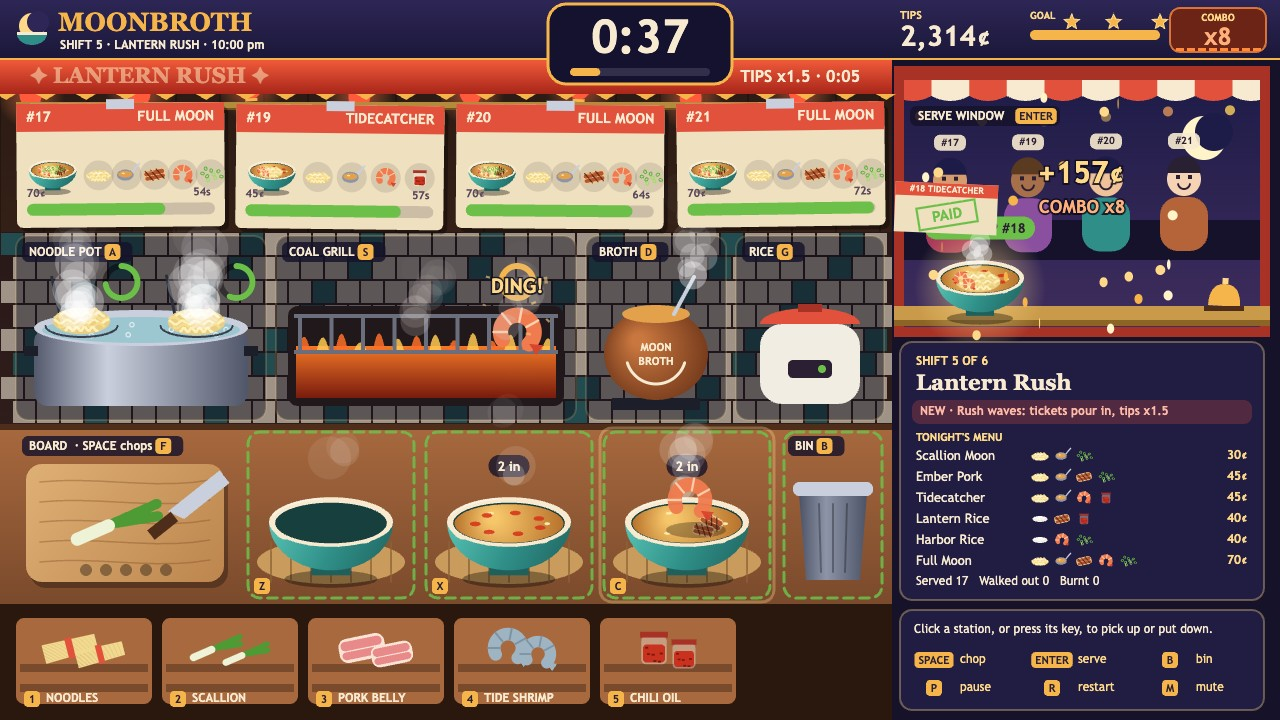
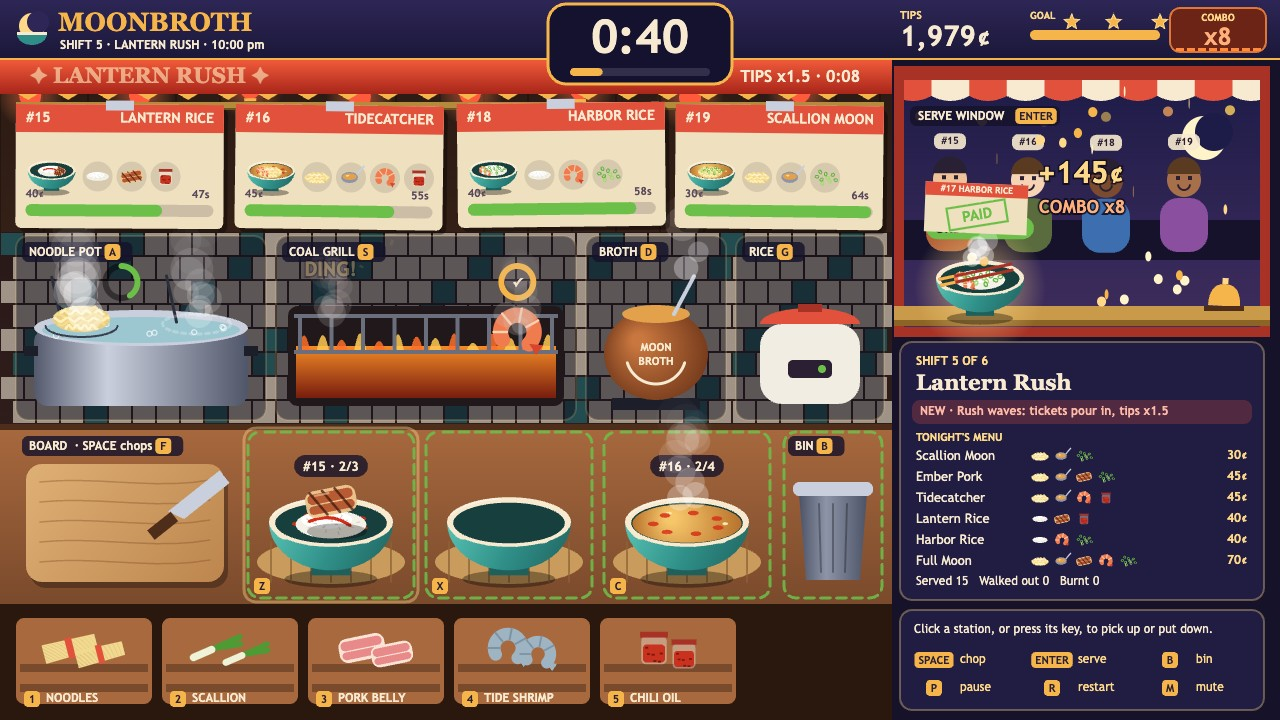
Ready tickets glow, pressure line on shift cards, rising critic odds, pause on blur, chopsticks on served bowls

diff --git a/game/src/hud.js b/game/src/hud.js
@@ -2,7 +2,7 @@
 // the ticket rail, the rush ribbon, the shift card, the key legend, Grandma Tam's tutorial
 // pointer and the food in the cook's hand.
 import { COMBO_MAX, FONT, FONT_TITLE, LAYOUT, PALETTE, TICKET } from './config.js';
-import { recipesForShift } from './menu.js';
+import { recipeMatching, recipesForShift } from './menu.js';
 import { drawBowl, drawIngredient, roundRect } from './food-art.js';
 import { keyCap } from './kitchen-art.js';
 import { currentTutorialStep } from './tutorial.js';
@@ -171,20 +171,34 @@ function drawTickets(ctx, kitchen, t) {
   ctx.fillRect(rail.x, rail.y + 6, rail.w, 6);
   ctx.fillStyle = '#6e5220';
   ctx.fillRect(rail.x, rail.y + 12, rail.w, 2);
+  const readyRecipes = readyBowlRecipes(kitchen);
   for (const ticket of kitchen.orders.tickets) {
     const slide = Math.max(0, 1 - ticket.age / 0.35);
     const x = rail.x + ticket.slot * (TICKET.width + TICKET.gap) + slide * 400;
-    drawTicket(ctx, ticket, x, rail.y + 4, t);
+    const ready = readyRecipes.indexOf(ticket.recipe);
+    if (ready >= 0) readyRecipes.splice(ready, 1);
+    drawTicket(ctx, ticket, x, rail.y + 4, t, ready >= 0);
   }
   if (kitchen.orders.tickets.length === 0) text(ctx, 'The rail is clear: orders are on their way…', rail.x + 20, rail.y + 60, 15, 'rgba(247,234,208,0.6)');
 }
 
-function drawTicket(ctx, ticket, x, y, t) {
+/** The recipes of finished bowls on the counter or in hand, one entry per bowl. */
+function readyBowlRecipes(kitchen) {
+  const carried = kitchen.hand && kitchen.hand.type === 'bowl' ? [kitchen.hand.bowl] : [];
+  return [...kitchen.bowls, ...carried].map((bowl) => bowl && recipeMatching(bowl.items)).filter(Boolean);
+}
+
+function drawTicket(ctx, ticket, x, y, t, ready) {
   const ratio = Math.max(0, ticket.patience / ticket.maxPatience);
   const shake = ratio < 0.2 ? Math.sin(t * 40) * 1.5 : 0;
   ctx.save();
   ctx.translate(x + shake, y);
   ctx.rotate(Math.sin(ticket.id * 1.7) * 0.015);
+  if (ready) {
+    roundRect(ctx, -4, 0, TICKET.width + 8, TICKET.height + 8, 9);
+    ctx.fillStyle = `rgba(108,192,74,${0.55 + Math.sin(t * 6) * 0.25})`;
+    ctx.fill();
+  }
   ctx.fillStyle = 'rgba(0,0,0,0.35)';
   roundRect(ctx, 4, 8, TICKET.width, TICKET.height, 6);
   ctx.fill();
@@ -218,7 +232,7 @@ function drawTicket(ctx, ticket, x, y, t) {
     ctx.fillStyle = barColor;
     ctx.fill();
   }
-  text(ctx, `${Math.ceil(ticket.patience)}s`, TICKET.width - 14, 94, 11, PALETTE.inkSoft, 'right');
+  text(ctx, ready ? 'BOWL READY ✓' : `${Math.ceil(ticket.patience)}s`, TICKET.width - 14, 94, 11, ready ? '#3d8a24' : PALETTE.inkSoft, 'right');
   text(ctx, `${ticket.recipe.value}¢`, 10, 94, 11, PALETTE.inkSoft);
   ctx.restore();
 }

diff --git a/game/src/kitchen-art.js b/game/src/kitchen-art.js
@@ -2,9 +2,9 @@
 // (the boiling pot, the coal grill, the broth kettle, the rice cooker, the board, the bowls,
 // the crates and the serve window looking out on Lantern Pier).
 import { CHOP_STROKES, FONT, LAYOUT, PALETTE } from './config.js';
-import { CRATE_ORDER, INGREDIENTS, recipeMatching } from './menu.js';
+import { bowlFitsRecipe, CRATE_ORDER, INGREDIENTS, recipeMatching } from './menu.js';
 import { cookerSlotRect, cookProgress, crateRect, isOpen } from './kitchen.js';
-import { drawBowl, drawIngredient, roundRect } from './food-art.js';
+import { drawBowl, drawChopsticks, drawIngredient, roundRect } from './food-art.js';
 import { ticketForBowl } from './orders.js';
 
 const KEYS = { pot: 'A', grill: 'S', kettle: 'D', rice: 'G', board: 'F', trash: 'B', window: 'ENTER' };
@@ -31,10 +31,9 @@ export function dropSpotsFor(kitchen) {
   const hand = kitchen.hand;
   if (!hand) return [];
   if (hand.type === 'bowl') {
-    const spots = [LAYOUT.trash];
-    if (recipeMatching(hand.bowl.items)) spots.push(LAYOUT.window);
+    const spots = recipeMatching(hand.bowl.items) ? [LAYOUT.window] : [];
     LAYOUT.bowls.forEach((rect, index) => kitchen.bowls[index] === null && spots.push(rect));
-    return spots;
+    return [...spots, LAYOUT.trash];
   }
   const item = hand.item;
   if (item.stage === 'ruined') return [LAYOUT.trash];
@@ -431,7 +430,10 @@ function drawBowlSpots(ctx, kitchen, t) {
       const scale = (0.6 + 0.4 * easeOutBack(bowl.appear)) * (1 + 0.12 * Math.sin((bowl.pop ?? 0) * Math.PI));
       drawBowl(ctx, cx, cy - 6, 62 * scale, bowl.items, Boolean(ticket));
       if (recipe) bowlTag(ctx, cx, rect.y + 36, ticket ? `#${ticket.id} READY` : recipe.name, Boolean(ticket), t);
-      else if (bowl.items.length) bowlTag(ctx, cx, rect.y + 36, `${bowl.items.length} in`, false, t);
+      else if (bowl.items.length) {
+        const heading = kitchen.orders.tickets.filter((entry) => bowlFitsRecipe(bowl.items, entry.recipe)).sort((a, b) => a.patience - b.patience)[0];
+        bowlTag(ctx, cx, rect.y + 36, heading ? `#${heading.id} · ${bowl.items.length}/${heading.recipe.items.length}` : 'no ticket wants this', false, t);
+      }
     }
     keyCap(ctx, rect.x + 16, rect.y + rect.h - 14, BOWL_KEYS[index]);
   });
@@ -563,6 +565,7 @@ function drawServeWindow(ctx, kitchen, t) {
     const x = rect.x + 80 + index * 110;
     const lift = plate.timer < 0.4 ? (0.4 - plate.timer) * 120 : 0;
     drawBowl(ctx, x, shelfY - 2 - lift, 44, plate.bowl.items, true);
+    drawChopsticks(ctx, x + 6, shelfY - 6 - lift, 44);
     bowlTag(ctx, x, shelfY - 52 - lift, `ORDER UP #${plate.ticket.id}`, true, t);
   });
   ctx.font = `bold 12px ${FONT}`;

diff --git a/game/src/shots.js b/game/src/shots.js
@@ -5,6 +5,7 @@ import { STEP } from './config.js';
 import { bowlFitsRecipe, INGREDIENTS, recipeMatching } from './menu.js';
 import { chopStroke, useTarget } from './kitchen.js';
 import { openStall, startShift, updateApp } from './game.js';
+import { dropSpotsFor } from './kitchen-art.js';
 
 const THINK_SECONDS = 0.32;
 const CHOP_SECONDS = 0.12;
@@ -108,6 +109,13 @@ function playForward(app, limit, until, think = THINK_SECONDS) {
   }
 }
 
+/** Hold the cursor just above where the cook is taking what they hold, as a player's hand would be. */
+function pointerOverDropSpot(kitchen) {
+  const spot = dropSpotsFor(kitchen)[0];
+  if (!spot) return { x: 520, y: 520 };
+  return { x: spot.x + spot.w / 2, y: spot.y + spot.h * 0.42 };
+}
+
 /** True when every ticket has finished sliding onto the rail. */
 function settled(kitchen) {
   return kitchen.orders.tickets.every((ticket) => ticket.age > 0.5);
@@ -127,7 +135,7 @@ export function stageShot(name, app) {
     const k = app.kitchen;
     useTarget(k, 'crate:noodles');
     useTarget(k, 'pot');
-    playForward(app, 1.5, () => false);
+    for (let i = 0; i < 90; i += 1) updateApp(app, STEP);
     useTarget(k, 'crate:scallion');
     useTarget(k, 'board');
     for (let i = 0; i < 5; i += 1) chopStroke(k);
@@ -154,12 +162,12 @@ export function stageShot(name, app) {
     const burning = (k) => k.grill.some((item) => item && item.stage === 'ready' && item.held > 5.2);
     const critic = (k) => k.orders.tickets.some((ticket) => ticket.critic);
     playForward(app, 170, (k) => k.elapsed > 30 && critic(k) && burning(k) && settled(k) && !app.fx.banner, 0.62);
-    app.shotPointer = { x: 700, y: 330 };
+    app.shotPointer = pointerOverDropSpot(app.kitchen);
     return;
   }
   startShift(app, 4);
   openStall(app);
   const busy = (k) => k.grill.some(Boolean) && k.pot.some(Boolean) && k.bowls.some((bowl) => bowl && bowl.items.length >= 2 && !recipeMatching(bowl.items));
   playForward(app, 140, (k) => k.elapsed > 44 && k.rush && k.orders.tickets.length >= 4 && k.shelf.length > 0 && k.shelf[0].timer < 1.2 && busy(k) && settled(k), 0.42);
-  app.shotPointer = { x: 690, y: 500 };
+  app.shotPointer = pointerOverDropSpot(app.kitchen);
 }

diff --git a/game/src/screens.js b/game/src/screens.js
@@ -2,7 +2,7 @@
 // the card that opens each shift, the pause card, the closing tally and the night's end.
 import { FONT, FONT_TITLE, PALETTE } from './config.js';
 import { recipesForShift } from './menu.js';
-import { SHIFTS, starsFor } from './shifts.js';
+import { pressureLine, SHIFTS, starsFor } from './shifts.js';
 import { drawBowl, roundRect } from './food-art.js';
 import { drawMoonMark, drawStar } from './hud.js';
 import { keyCap } from './kitchen-art.js';
@@ -144,7 +144,8 @@ export function drawIntro(ctx, shift, t) {
   ctx.fillStyle = 'rgba(226,81,59,0.3)';
   ctx.fill();
   text(ctx, `NEW TONIGHT · ${shift.adds}`, 640, 246, 16, '#ffc6b8', 'center');
-  text(ctx, shift.tip, 640, 284, 15, PALETTE.cream, 'center', 'italic');
+  text(ctx, shift.tip, 640, 280, 15, PALETTE.cream, 'center', 'italic');
+  text(ctx, pressureLine(shift), 640, 302, 12, PALETTE.amberLight, 'center', 'normal');
   const menu = recipesForShift(shift.number);
   const span = Math.min(140, 800 / menu.length);
   menu.forEach((recipe, index) => {

diff --git a/game/src/food-art.js b/game/src/food-art.js
@@ -285,6 +285,28 @@ export function drawBowl(ctx, x, y, r, items, glow) {
   ctx.stroke();
 }
 
+/** A pair of lacquered chopsticks laid across a served bowl's rim. */
+export function drawChopsticks(ctx, x, y, r) {
+  ctx.save();
+  ctx.translate(x, y);
+  ctx.rotate(-0.18);
+  ctx.lineCap = 'round';
+  for (const offset of [-r * 0.07, r * 0.07]) {
+    ctx.strokeStyle = PALETTE.lanternDark;
+    ctx.lineWidth = Math.max(2, r * 0.07);
+    ctx.beginPath();
+    ctx.moveTo(-r * 1.05, offset);
+    ctx.lineTo(r * 0.6, offset - r * 0.05);
+    ctx.stroke();
+    ctx.strokeStyle = PALETTE.amber;
+    ctx.beginPath();
+    ctx.moveTo(-r * 1.05, offset);
+    ctx.lineTo(-r * 0.75, offset - r * 0.01);
+    ctx.stroke();
+  }
+  ctx.restore();
+}
+
 /** The food inside a bowl's mouth (an ellipse rx by ry), bottom layer first. */
 function drawBowlContents(ctx, x, y, rx, ry, items) {
   const has = (kind) => items.includes(kind);

diff --git a/game/src/main.js b/game/src/main.js
@@ -2,7 +2,7 @@
 // fixed-step loop. With ?shot=<name> it stages a screenshot scene instead and holds still.
 import { SCREEN, STEP } from './config.js';
 import { createAudio, unlockAudio } from './audio.js';
-import { createApp, describeApp, handleClick, handleKey, renderApp, updateApp } from './game.js';
+import { createApp, describeApp, handleClick, handleKey, pauseIfPlaying, renderApp, updateApp } from './game.js';
 import { fitScreen, setupInput } from './input.js';
 import { stageShot } from './shots.js';
 
@@ -49,6 +49,8 @@ const pointer = setupInput(canvas, () => view, {
 });
 
 window.addEventListener('resize', resizeCanvas);
+window.addEventListener('blur', () => pauseIfPlaying(app));
+document.addEventListener('visibilitychange', () => document.hidden && pauseIfPlaying(app));
 resizeCanvas();
 
 let last = performance.now();

diff --git a/game/src/menu.js b/game/src/menu.js
@@ -10,7 +10,7 @@
 export const INGREDIENTS = {
   noodles: { name: 'Noodles', ready: 'Boiled noodles', prep: 'pot', cook: 5.5, source: 'crate', key: '1' },
   scallion: { name: 'Scallion', ready: 'Sliced scallion', prep: 'chop', cook: 0, source: 'crate', key: '2' },
-  pork: { name: 'Pork belly', ready: 'Charred pork', prep: 'grill', cook: 6, source: 'crate', key: '3' },
+  pork: { name: 'Pork belly', ready: 'Charred pork', prep: 'grill', cook: 6.5, source: 'crate', key: '3' },
   shrimp: { name: 'Tide shrimp', ready: 'Grilled shrimp', prep: 'grill', cook: 4.5, source: 'crate', key: '4' },
   chili: { name: 'Chili oil', ready: 'Chili oil', prep: 'none', cook: 0, source: 'crate', key: '5' },
   broth: { name: 'Moon broth', ready: 'Moon broth', prep: 'none', cook: 0, source: 'kettle', key: 'D' },

diff --git a/game/src/orders.js b/game/src/orders.js
@@ -59,7 +59,8 @@ export function stepOrders(kitchen, dt, teaching) {
   orders.tickets = orders.tickets.filter((ticket) => ticket.patience > 0);
   orders.nextIn -= dt * (kitchen.rush ? RUSH_SPAWN_SPEEDUP : 1);
   if (orders.nextIn <= 0 && orders.tickets.length < TICKET.max) {
-    const critic = kitchen.shift.critics && kitchen.elapsed > 15 && kitchen.random() < 0.3;
+    const criticChance = 0.18 + 0.27 * Math.min(1, kitchen.elapsed / kitchen.shift.seconds);
+    const critic = kitchen.shift.critics && kitchen.elapsed > 15 && kitchen.random() < criticChance;
     dealTicket(kitchen, chooseRecipe(kitchen), critic);
     orders.nextIn = orders.tickets.length === 1 ? 2.5 : spawnIntervalAt(kitchen.shift, kitchen.elapsed);
   }

diff --git a/game/src/shifts.js b/game/src/shifts.js
@@ -63,6 +63,12 @@ export function rushAt(shift, elapsed) {
   return shift.rush.find(([start, end]) => elapsed >= start && elapsed < end) ?? null;
 }
 
+/** One line saying how hard the shift pushes: how often tickets come and how long they wait. */
+export function pressureLine(shift) {
+  const rush = shift.rush.length ? ` · ${shift.rush.length} rush waves` : '';
+  return `A ticket every ${shift.spawnStart}s, tightening to ${shift.spawnEnd}s · patience ${shift.patience}s+${rush}`;
+}
+
 /** Stars (0 to 3) a score earns on `shift`. */
 export function starsFor(shift, score) {
   return shift.stars.filter((needed) => score >= needed).length;

diff --git a/game/src/audio.js b/game/src/audio.js
@@ -152,7 +152,9 @@ export function playEvent(audio, event) {
       [0, 4, 7, 12].forEach((step, i) => tone(audio, 523 * 2 ** ((step + Math.min(event.combo, 6)) / 12), now + 0.08 + i * 0.06, 0.18, 'triangle', 0.14));
       break;
     case 'missed':
-      tone(audio, 330, now, 0.25, 'triangle', 0.18, audio.master, 196);
+      tone(audio, 392, now, 0.22, 'triangle', 0.18);
+      tone(audio, 311, now + 0.2, 0.4, 'triangle', 0.18, audio.master, 233);
+      noise(audio, now, 0.25, 300, 0.15, 'lowpass');
       break;
     case 'trash':
       noise(audio, now, 0.2, 400, 0.4, 'lowpass');

diff --git a/game/src/input.js b/game/src/input.js
@@ -7,7 +7,7 @@ import { clickTargets } from './kitchen.js';
 export const KEY_TARGETS = {
   1: 'crate:noodles', 2: 'crate:scallion', 3: 'crate:pork', 4: 'crate:shrimp', 5: 'crate:chili',
   a: 'pot', s: 'grill', d: 'kettle', g: 'rice', f: 'board',
-  z: 'bowl:0', x: 'bowl:1', c: 'bowl:2', b: 'trash', enter: 'window',
+  z: 'bowl:0', x: 'bowl:1', c: 'bowl:2', b: 'trash', backspace: 'trash', enter: 'window',
 };
 
 /** Keys that are commands rather than places. */

diff --git a/game/src/tutorial.js b/game/src/tutorial.js
@@ -30,7 +30,7 @@ export const TUTORIAL_STEPS = [
     done: (k) => bowlHas(k, 'broth') },
   { text: 'Noodles ready? Lift them from the pot into the bowl.', target: 'pot',
     done: (k) => bowlHas(k, 'noodles') },
-  { text: 'Pick up the bowl and ring it out at the window (ENTER).', target: 'window',
+  { text: 'Pick up the finished bowl (Z), then ring it out at the window (ENTER).', target: 'window',
     done: (k) => k.served > 0 },
 ];
 
